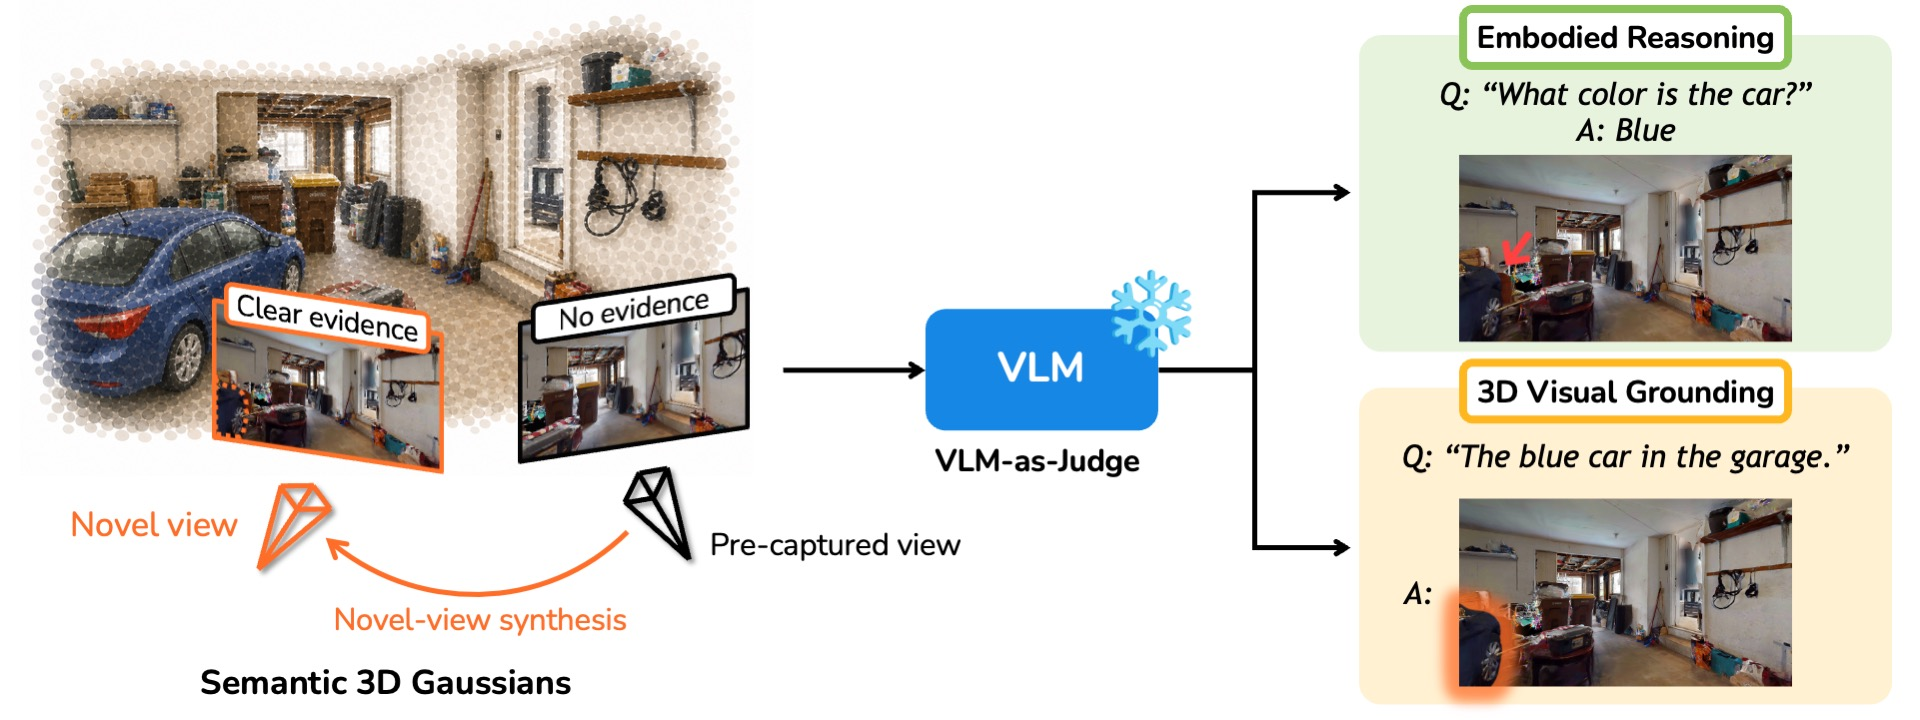
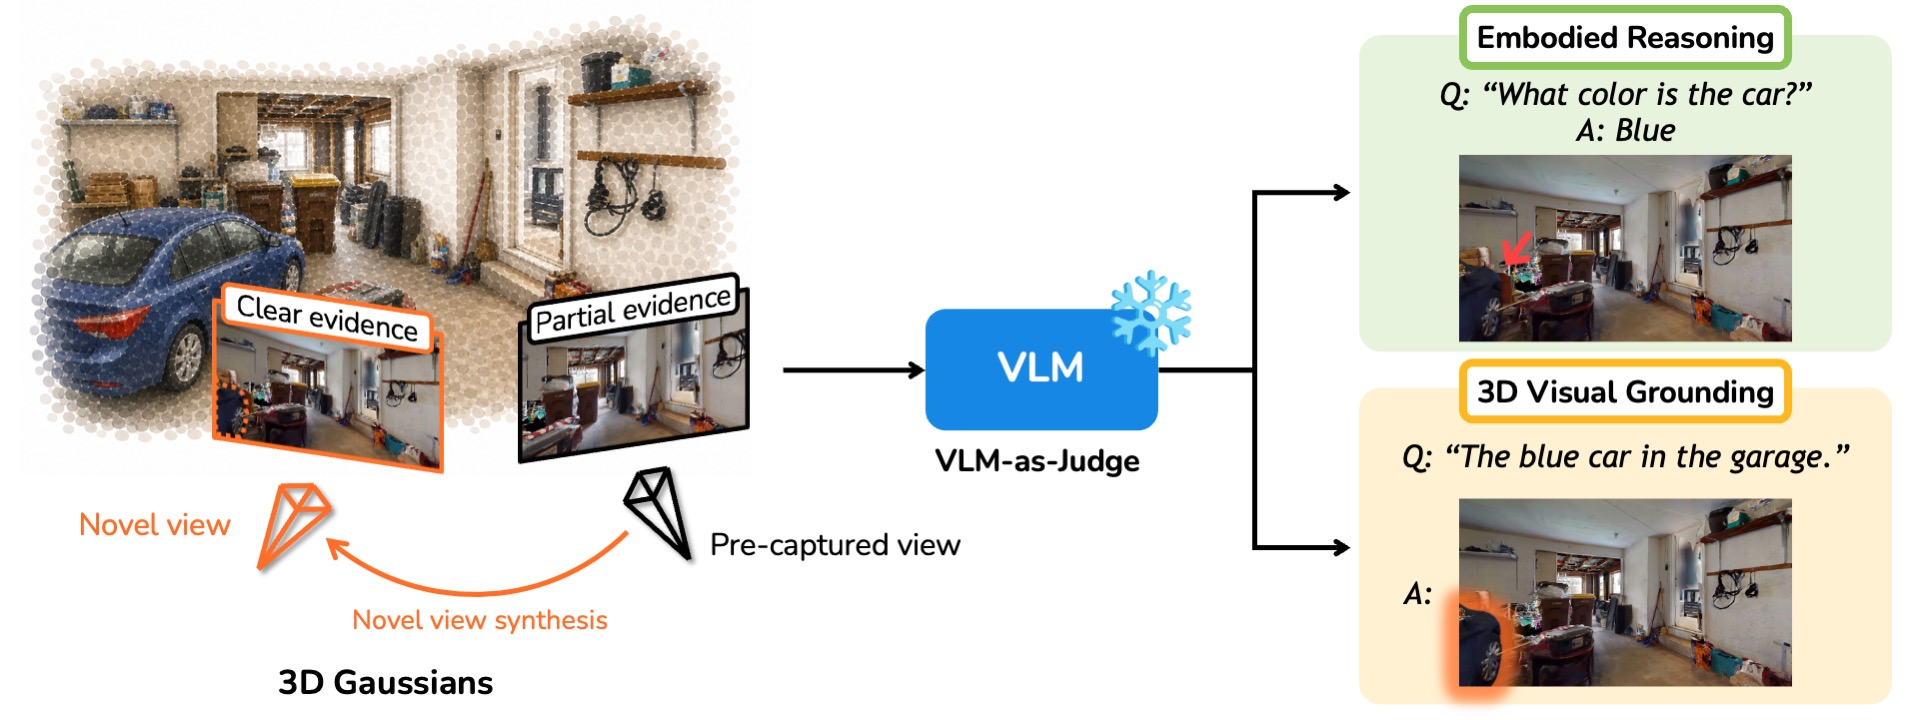
update arxiv

diff --git a/index.html b/index.html
@@ -124,12 +124,12 @@
                 </a>
               </span> -->
               <span class="link-block">
-                <a href=""
+                <a href="https://arxiv.org/abs/2601.13132"
                    class="external-link button is-normal is-rounded is-dark">
                   <span class="icon">
                       <i class="ai ai-arxiv"></i>
                   </span>
-                  <span>arXiv (Coming Soon)</span>
+                  <span>arXiv</span>
                 </a>
               </span>
 
@@ -226,15 +226,11 @@
         <h2 class="title is-3">Abstract</h2>
         <div class="content has-text-justified">
             <p>
-              While recent RGB-D structured memories provide a foundation for scene and spatial understanding, they are inherently constrained by the fixed viewpoints. 
-              These constraints lead to occlusions and restricted fields of view, highlighting the necessity of novel-view reasoning to achieve a more comprehensive scene understanding. 
-              We present SplatReasoner, an enhanced embodied reasoning and grounding framework that integrates 3D Gaussian Splatting (3DGS) with Vision-Language Models (VLMs).
-              SplatReasoner first identifies the most relevant pre-captured views for a user query, and subsequently adjusts them into novel viewpoints using 3DGS-based view synthesis. 
-              This enables VLMs to better align visual information, facilitating their reasoning process. To facilitate 3D spatial understanding, we utilize language-embedded 3DGS for visual grounding.
-              While this approach has shown promise in open-vocabulary tasks, its efficacy is bounded to simple categorical queries and struggles to interpret complex, compositional language. 
-              By interacting with our enhanced reasoning outputs, we successfully perform 3D grounding by handling sophisticated linguistic queries. 
-              Experiments show that SplatReasoner outperforms in OpenEQA and ScanRefer benchmarks for embodied reasoning and 3D grounding, respectively, 
-              demonstrating the effectiveness of combining VLM-based reasoning with 3DGS for 3D scene understanding.
+              Vision-Language Models (VLMs) have demonstrated strong reasoning capabilities over images and videos, yet their application to embodied scene understanding often constrained by the fixed viewpoints stored in episodic RGB-D memories.
+              These observations may fail to capture query-relevant evidence due to occlusions, object truncation, restricted fields of view, or suboptimal view composition.
+              We present \nickname, a framework that introduces novel view synthesis into the VLM reasoning process by leveraging 3D Gaussian Splatting (3DGS).
+              Given a user query about a 3D scene, \nickname retrieves relevant observations and synthesizes query-conditioned viewpoints that reveal the visual evidence needed to answer the query and ground the referred entities in 3D.
+              Experiments show that query-conditioned novel view synthesis improves both embodied reasoning and 3D grounding over fixed-view memory and language-embedded 3DGS baselines.
             </p>
         </div>
       </div>